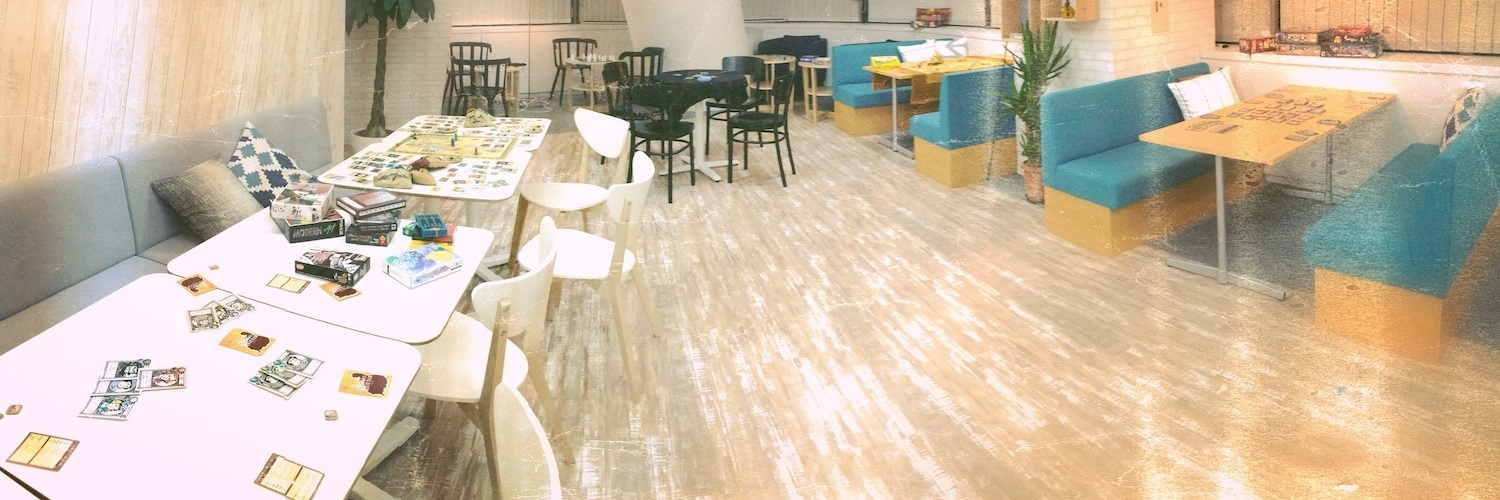
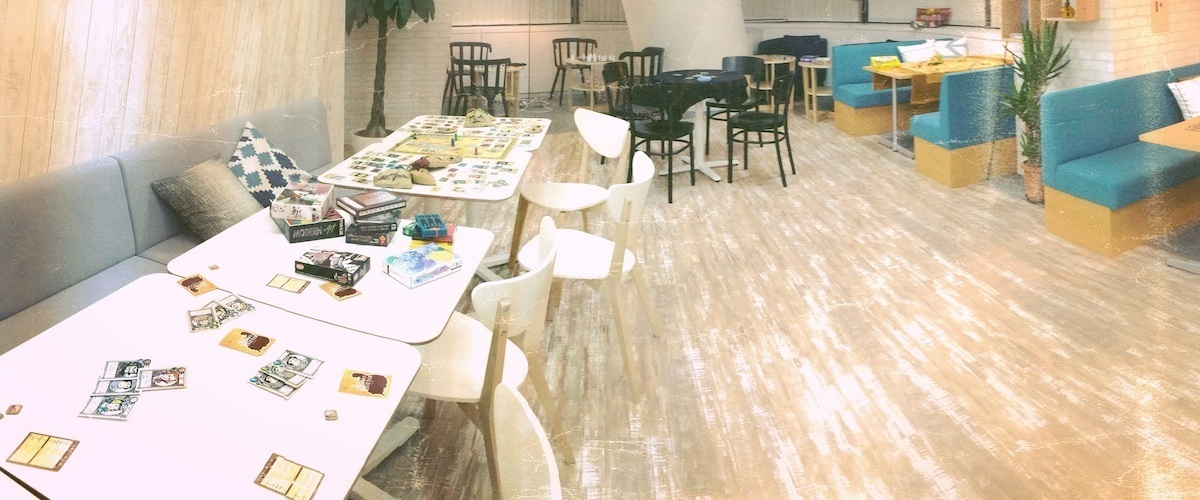
fix home

diff --git a/app/assets/javascripts/application.js b/app/assets/javascripts/application.js
@@ -22,6 +22,7 @@
   $(function(){
 
     $('.parallax').parallax();
+    $('.button-collapse').sideNav();
     $('.input-field select').material_select();
     $('.datepicker').pickadate({
       selectMonths: false, // Creates a dropdown to control month

diff --git a/app/assets/stylesheets/application.css.scss b/app/assets/stylesheets/application.css.scss
@@ -13,7 +13,7 @@ main {
 }
 
 .parallax-container {
-  height: 250px;
+  height: 230px;
   line-height: 0;
 }
 .parallax-container .section {
